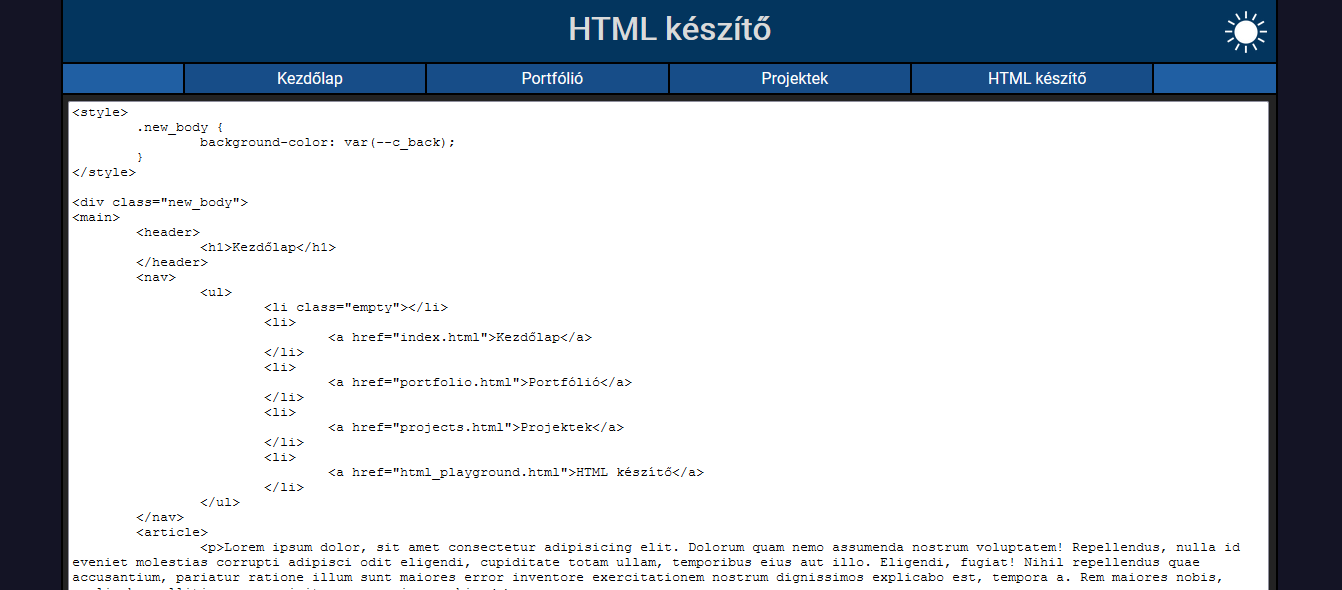
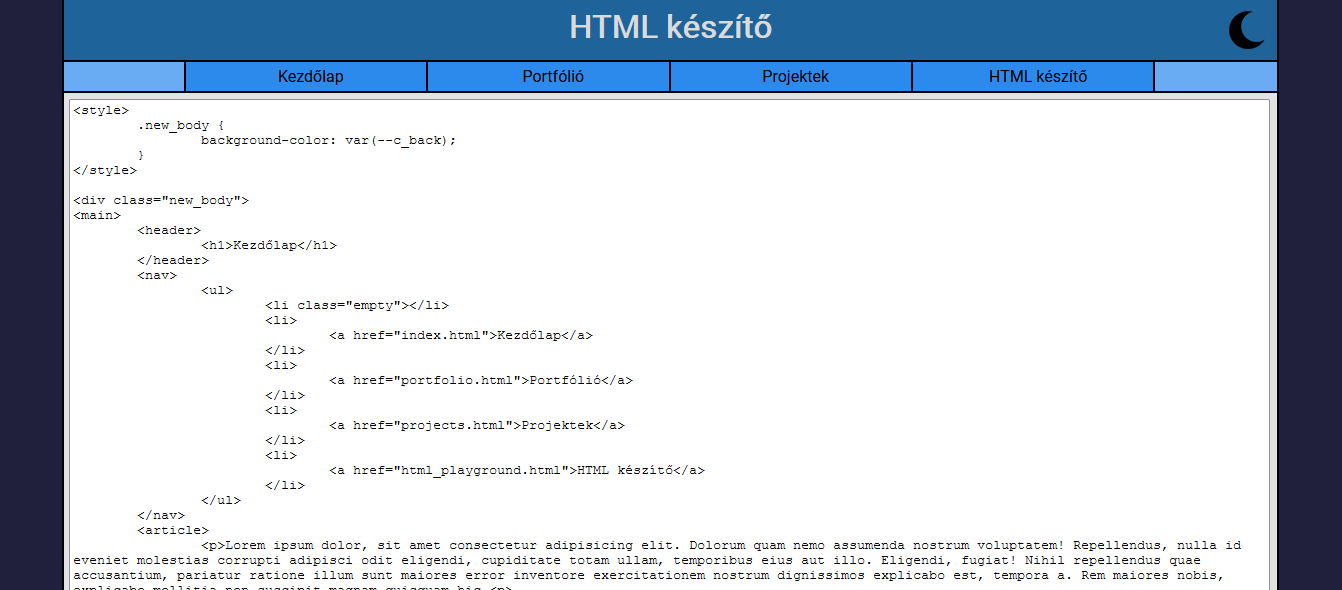
final?

diff --git a/js.js b/js.js
@@ -15,27 +15,47 @@ function setTheme(){
     if(theme=="light")
     {
         //replace light images with dark
+        //empty
         $("header>.theme>.theme_button").empty();
         $(".link_type_github").empty();
         $(".link_type_link").empty();
         $(".link_type_download").empty();
+        $(".pre_portfolio").empty();
+        $(".pre_projects").empty();
+        $(".pre_html_playground").empty();
+        //theme
         $("header>.theme>.theme_button").append(`<img src="img/moon.png" alt="Dark mode">`);
+        //galery
         $(".link_type_github").append(`<img src="img/git.png" alt="GitHub">`);
         $(".link_type_link").append(`<img src="img/link.png" alt="Link">`);
         $(".link_type_download").append(`<img src="img/download.png" alt="Download">`);
+        //preview
+        $(".pre_portfolio").append(`<img src="img/preview/portfolio.png" alt="Portfolio">`);
+        $(".pre_projects").append(`<img src="img/preview/projects.png" alt="Projektek">`);
+        $(".pre_html_playground").append(`<img src="img/preview/html_playground.png" alt="HTML készítő">`);
         theme = "dark";
     }
     else
     {
         //replace dark images with light
+        //empty
         $("header>.theme>.theme_button").empty();
         $(".link_type_github").empty();
         $(".link_type_link").empty();
         $(".link_type_download").empty();
+        $(".pre_portfolio").empty();
+        $(".pre_projects").empty();
+        $(".pre_html_playground").empty();
+        //theme
         $("header>.theme>.theme_button").append(`<img src="img/sun.png" alt="Light mode">`);
+        //galery
         $(".link_type_github").append(`<img src="img/git_dark.png" alt="GitHub">`);
         $(".link_type_link").append(`<img src="img/link_dark.png" alt="Link">`);
         $(".link_type_download").append(`<img src="img/download_dark.png" alt="Download">`);
+        //preview
+        $(".pre_portfolio").append(`<img src="img/preview/portfolio_dark.png" alt="Portfolio">`);
+        $(".pre_projects").append(`<img src="img/preview/projects_dark.png" alt="Projektek">`);
+        $(".pre_html_playground").append(`<img src="img/preview/html_playground_dark.png" alt="HTML készítő">`);
         theme = "light";
     }
     document.documentElement.className = theme;

diff --git a/portfolio.html b/portfolio.html
@@ -24,12 +24,15 @@
             <div class="no fadeIn" style="--order: 1"><h2>Magamról</h2></div>
             <div class="fadeIn portfolio" style="--order: 2 ">
                 <img class="me" src="img/me.jpg" alt="én">
-                <p>Rohovszky Ákos vagyok, és a Számalk Szalezi Technikum és Szakgimnáziumban Softverfejlesztő és tesztelő szakon tanulok. Szeretek programozni, főleg Python és C# nyelven.</p>
+                <div><p>Rohovszky Ákos vagyok, és a Számalk Szalezi Technikum és Szakgimnáziumban Softverfejlesztő és tesztelő szakon tanulok. Szeretek programozni, főleg Python és C# nyelven.</p></div>
             </div>
         </article>
         <aside>
             <div class="no fadeIn" style="--order: 3"><h2>Ihletek</h2></div>
-            <iframe class="video fadeIn" style="--order: 4" src="https://www.youtube.com/embed/Qhaz36TZG5Y" title="YouTube video player" allow="accelerometer; autoplay; clipboard-write; encrypted-media; gyroscope; picture-in-picture" allowfullscreen></iframe>
+            <div class="video_con fadeIn" style="--order: 4">
+                <iframe class="video" src="https://www.youtube.com/embed/Qhaz36TZG5Y" title="YouTube video player" allow="accelerometer; autoplay; clipboard-write; encrypted-media; gyroscope; picture-in-picture" allowfullscreen></iframe>
+                <iframe class="video" src="https://www.youtube.com/embed/Mus_vwhTCq0" title="YouTube video player" allow="accelerometer; autoplay; clipboard-write; encrypted-media; gyroscope; picture-in-picture" allowfullscreen></iframe>
+            </div>
         </aside>
         <footer>
         </footer>

diff --git a/index.html b/index.html
@@ -22,19 +22,20 @@
             <div class="links">
                 <div>
                     <h3>Portfolio</h3>
-                    <a href="portfolio.html"><img src="img/preview/portfolio.png" alt="Portfolio"></a>
+                    <a class="pre_portfolio" href="portfolio.html"><img src="img/preview/portfolio_dark.png" alt="Portfolio"></a>
                 </div>
                 <div>
                     <h3>Projektek</h3>
-                    <a href="projects.html"><img src="img/preview/projects.png" alt="Projektek"></a>
+                    <a class="pre_projects" href="projects.html"><img src="img/preview/projects_dark.png" alt="Projektek"></a>
                 </div>
                 <div>
                     <h3>HTML készítő</h3>
-                    <a href="html_playground.html"><img src="img/preview/html_playground.png" alt="HTML készítő"></a>
+                    <a class="pre_html_playground" href="html_playground.html"><img src="img/preview/html_playground_dark.png" alt="HTML készítő"></a>
                 </div>
             </div>
         </article>
         <footer>
+            <div class="gitlink"><a href="https://github.com/Kalandor01/Portfolio">GitHub</a></div>
         </footer>
     </main>
 </body>

diff --git a/style.css b/style.css
@@ -48,6 +48,7 @@ main, header, nav, article, aside, footer {
 a {
     text-decoration: none;
     text-align: center;
+    color: brown;
 }
 
 main {
@@ -358,7 +359,12 @@ aside>.play_area {
     word-break:break-all;
 }
 
-aside>.video{
+aside>.video_con {
+    margin: auto;
+    text-align: center;
+}
+
+.video{
     aspect-ratio: 16/9;
     width: 100%;
     max-width: 500px;
@@ -372,6 +378,28 @@ footer {
     text-align: center;
     color: rgb(201, 201, 201);
     background-color: var(--c_footer);
+}
+
+footer>.gitlink {
+    margin: auto;
+    margin-top: 5px;
+    text-align: center;
+    width: 20%;
+}
+
+footer>.gitlink>a {
+    background-color: var(--c_li);
+    color: var(--c_white);
+    border-radius: 5px;
+    text-decoration: none;
+    display: inline-block;
+    width: 100%;
+    padding: 5px;
+}
+
+footer>.gitlink>a:hover {
+    background-color: var(--c_li_h);
+    color: var(--c_black);
 }
 
 /*MEDIA SCREENS*/
@@ -420,7 +448,19 @@ footer {
     aside>.play_area {
         width: 100%;
     }
+
+    footer>.gitlink {
+        width: 40%;
+    }
     
+}
+
+@media screen and (max-width:300px) {
+
+    .fadeIn>.me {
+        width: 80%;
+    }
+
 }
 
 @media screen and (max-width:380px) {
